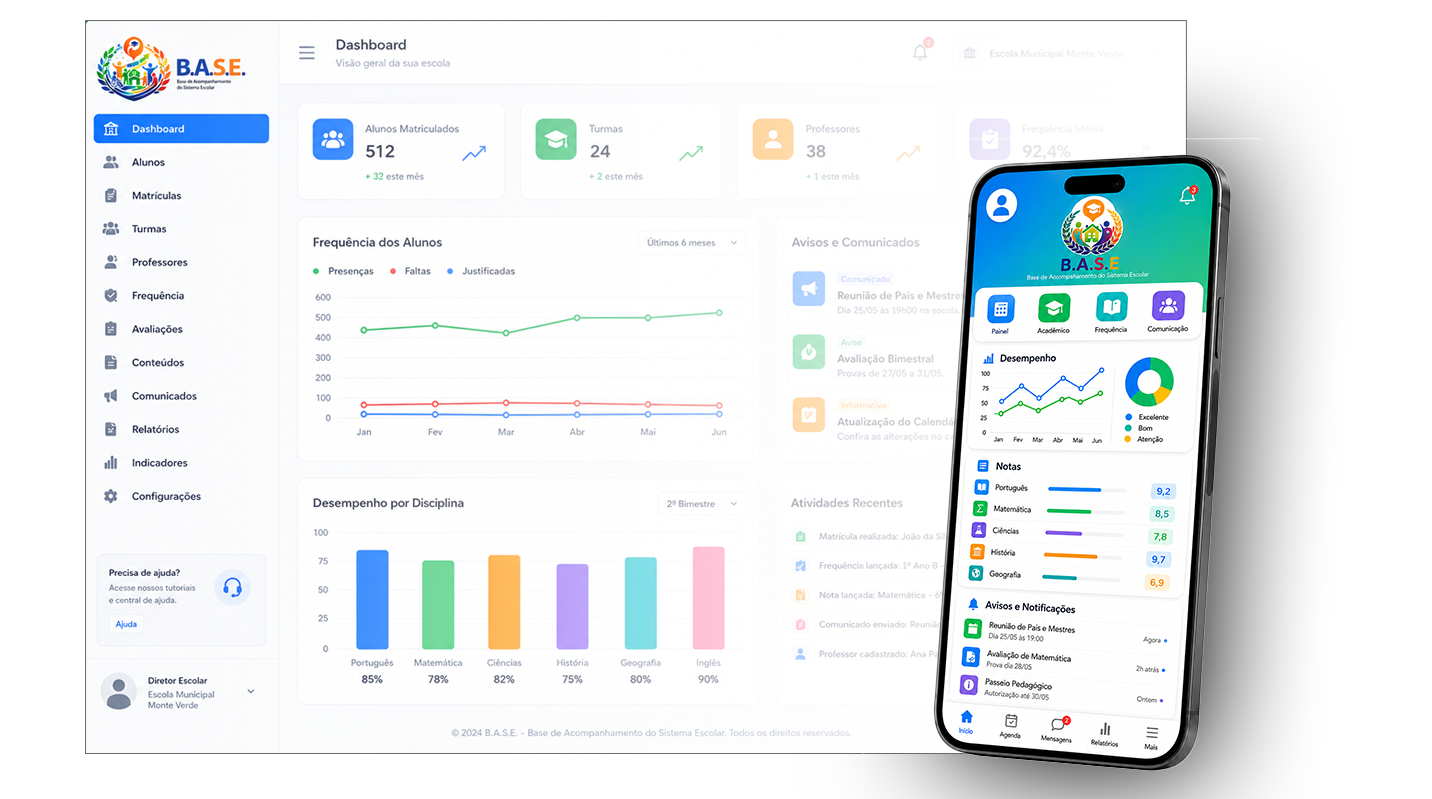
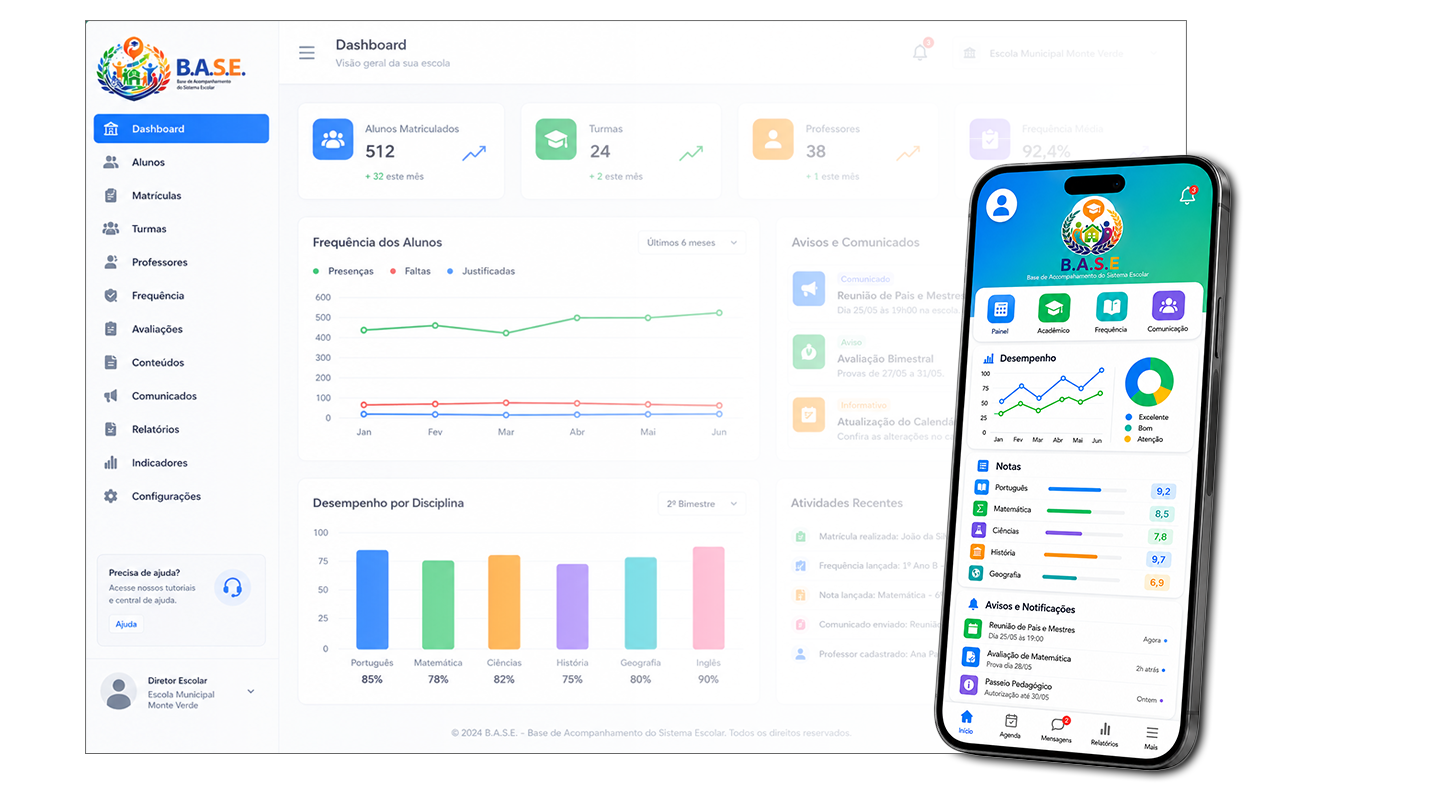
Revisão Ricardo

Changed region(s): [[0.6145, 0.1202, 0.9218, 1.0]]

diff --git a/index.html b/index.html
@@ -35,13 +35,13 @@
                 </div>
             </div>
         </div>
-    <img id="App" src="Img/Portal_Web_BASE 1.png">
+    <img id="App" src="Img/Portal_Web_BASE.png">
     </div>
 </div>
 
 <div id="Solucao">
     <h2 class="Centralizar">Tudo o que a comunidade escolar precisa, em um só lugar.</h2>
-    <p>O B.A.S.E. conecta famílias, alunos, professores e equipes escolares para tornar o acompanhamento da vida escolar mais simples e transparente.<p>
+    <p>O B.A.S.E. conecta famílias, alunos, professores e equipes escolares para tornar o acompanhamento da vida escolar mais simples e transparente.</p>
     <div id="solContainer">
         <div class="Solucoes">
             <span class="Contador">01</span>
@@ -111,20 +111,20 @@
     </div>
     <div class="blocos">
         <div class="bloco">
-            <h3>Segurança para os estudantes</h3>
-            <p>Facilitar a vida escolar dos mais de 18.300 matriculados na rede municipal, garantindo maior segurança durante os anos de estudo.</p>
+            <h3>Qualidade de vida para os estudantes</h3>
+            <p>Facilitar a vida escolar dos mais de 18.300 alunos matriculados na rede municipal de Saquarema.</p>
         </div>
         <div class="bloco">
-            <h3>Conexão com as famílias</h3>
+            <h3>Conexão Esola-família</h3>
             <p>Conectar mais de 20.000 responsáveis às mais de 70 escolas municipais, permitindo acompanhar atividades acadêmicas, faltas, eventos e notas em tempo real.</p>
         </div>
         <div class="bloco">
-            <h3>Gestão escolar</h3>
-            <p>Enfrentar desafios de comunicação, processamento manual de dados e acompanhamento acadêmico dos alunos.</p>
+            <h3>Gestão escolar eficiente</h3>
+            <p>Reduzir em até 30% a necessidade de comunicação presencial e tornando a gestão mais ágil, organizada e integrada.</p>
         </div>
         <div class="bloco">
-            <h3>Implantação</h3>
-            <p>Meta de implantação na rede municipal.</p>
+            <h3>Redução de custos</h3>
+            <p>Reduzir em até 30% o uso de papel e tinta, digitalizando comunicados, registros e processos da rotina escolar.</p>
         </div>
     </div>
 </div>
@@ -133,7 +133,7 @@
     <div id="EquipeContainer">
         <div class="Equipe">
             <div id="Frente">
-                Conheça a Equipe B.A.S.E.
+                Equipe B.A.S.E.
             </div>
             <div id="Tras">
                 <span>Ricardo Benedito</span>

diff --git a/style.css b/style.css
@@ -1,6 +1,8 @@
 *{
     margin: 0;
 }
+
+
 body{
     background-color: whitesmoke;
     font-family: Inter, ui-sans-serif, system-ui, -apple-system, BlinkMacSystemFont, "Segoe UI", sans-serif;
@@ -67,6 +69,10 @@ header{
 em{
     font-weight: bold;
 }
+
+#Solucao {
+    
+}
 #solContainer{
     margin: auto;
     display: grid;
@@ -74,7 +80,7 @@ em{
     justify-items: center;
     max-width: 1000px;
     gap: 2%;
-    padding: 5%;
+    padding: 20px;
 }
 .Solucoes{
     background-color: ghostwhite;
@@ -132,17 +138,19 @@ h2.Qm + p.Qm{
     margin-bottom: 2%;
 }
 #App{
-    width: 50%;
+    width: 55%;
     margin-top: 1%;
+    max-width: 1600px;
 }
 .AppTexto{
     display: flex;
     align-items: center;
     justify-content: center;
-
+    background-color: #f7f9fc;
     gap: .5%;
     max-width: 100%;
     margin-bottom: 2%;
+    
 }
 #DivImg{
     max-width: 35%;
@@ -217,26 +225,32 @@ h2.Qm + p.Qm{
     display: flex;
     gap: 3%;
     margin: auto;
-    width: 50%;
+    width: 700px;
+    
 }
 
 .recursos_topico{
     border: 1px solid rgb(233, 235, 238);
     border-radius: 20px;
     flex: 1;
-    text-align: left;
+    text-align: center;
     padding: 3%;
     background-color: white;
+    
+    
 }
 
 #recursos ul{
     list-style: none;
+
 }
 
 #recursos li{
     color: gray;
     padding-bottom: 10px;
     padding-top: 10px;
+    margin-left: -10px;
+    text-align: left;
 }
 
 #recursos li::before{
@@ -248,7 +262,9 @@ h2.Qm + p.Qm{
 
 #recursos h2{
     font-size: 36px;
+
 }
+
 
 #recursos p {
     color: gray;
@@ -272,7 +288,7 @@ footer {
 #EquipeContainer{
     margin: auto;
     background-color: whitesmoke;
-    width: 50%;
+    width: 600px;
     height: 400px;
     perspective: 2500px;
     cursor: pointer;
@@ -303,7 +319,7 @@ footer {
     color: whitesmoke;
     font-weight: bold;
     border: 2px solid #1f3153;
-    background-color: #14213D;
+    background: linear-gradient(135deg, #14213d 5%, rgb(13, 13, 187) 80%);
 }
 
 #Tras{
@@ -316,7 +332,7 @@ footer {
     font-size: 22px;
     font-weight: bold;
     border: 2px solid #14213D;
-    background-color: #1f3153;
+    background: linear-gradient(135deg, #14213d 5%, rgb(8, 141, 52) 80%);
     transform: rotateY(180deg);
 }
 #Tras span{
